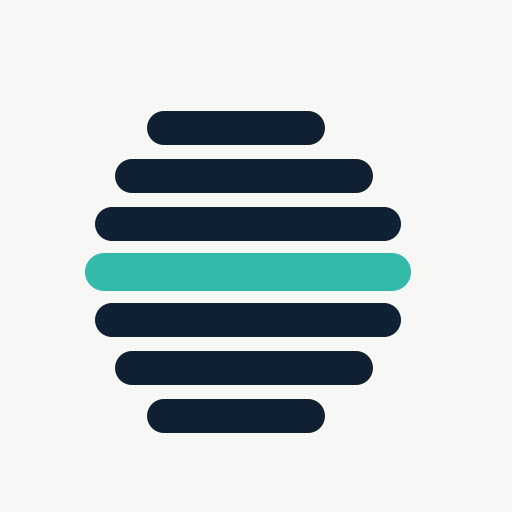
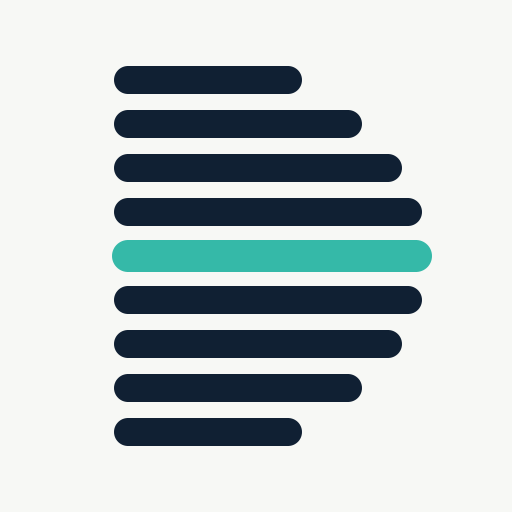
fix: preserve the D silhouette in the brand mark

Changed region(s): [[0.1562, 0.125, 0.8438, 0.875]]

diff --git a/supabase/templates/reset-password.html b/supabase/templates/reset-password.html
@@ -2,7 +2,7 @@
 <html lang="en"><body style="margin:0;background:#0b0e0c;font-family:Arial,sans-serif;color:#f7f8f5">
 <table role="presentation" width="100%" cellspacing="0" cellpadding="0" style="background:#0b0e0c;padding:42px 18px"><tr><td align="center">
 <table role="presentation" width="100%" cellspacing="0" cellpadding="0" style="max-width:560px;border:1px solid #2b352b;border-radius:24px;background:#111612;overflow:hidden">
-<tr><td style="padding:34px 38px 18px"><span style="display:inline-block;width:42px;height:42px;border-radius:14px;background:#f7f8f5;color:#102033;font-size:10px;line-height:6px;text-align:center;font-weight:900;vertical-align:middle"><br>&mdash;&mdash;<br>&mdash;&mdash;&mdash;<br><span style="color:#35b9a8">&mdash;&mdash;&mdash;</span><br>&mdash;&mdash;&mdash;<br>&mdash;&mdash;</span><span style="margin-left:12px;font-size:19px;font-weight:800;letter-spacing:-.3px">doryc</span></td></tr>
+<tr><td style="padding:34px 38px 18px"><span style="display:inline-block;width:42px;height:42px;padding-left:7px;border-radius:14px;background:#f7f8f5;color:#102033;font-size:9px;line-height:5px;text-align:left;font-weight:900;vertical-align:middle"><br>&mdash;&mdash;<br>&mdash;&mdash;&mdash;<br>&mdash;&mdash;&mdash;&mdash;<br><span style="color:#35b9a8">&mdash;&mdash;&mdash;&mdash;</span><br>&mdash;&mdash;&mdash;&mdash;<br>&mdash;&mdash;&mdash;<br>&mdash;&mdash;</span><span style="margin-left:12px;font-size:19px;font-weight:800;letter-spacing:-.3px">doryc</span></td></tr>
 <tr><td style="padding:8px 38px 36px"><p style="margin:0 0 12px;color:#bdf477;font-size:11px;font-weight:800;letter-spacing:2px">SECURE ACCOUNT RECOVERY</p><h1 style="margin:0 0 18px;font-size:32px;line-height:1.15">Choose a new password</h1><p style="margin:0 0 28px;color:#aeb6ac;font-size:15px;line-height:1.65">We received a request to reset your Doryc password. This secure link can only be used for your account.</p>
 <a href="{{ .ConfirmationURL }}" style="display:block;padding:16px 22px;border-radius:13px;background:#bdf477;color:#101510;text-align:center;text-decoration:none;font-size:15px;font-weight:800">Reset my password</a>
 <div style="height:1px;margin:32px 0;background:#273027"></div><p style="margin:0 0 8px;color:#e8ebe6;font-size:14px;font-weight:700">También en español</p><p style="margin:0;color:#929b90;font-size:13px;line-height:1.6">Recibimos una solicitud para cambiar tu contraseña. Si no fuiste tú, ignora este mensaje y tu contraseña seguirá igual.</p></td></tr>

diff --git a/supabase/templates/confirm-signup.html b/supabase/templates/confirm-signup.html
@@ -4,7 +4,7 @@
       <table role="presentation" width="100%" cellspacing="0" cellpadding="0" style="max-width:560px;border:1px solid #2b352b;border-radius:24px;background:#111612">
         <tr>
           <td style="padding:34px 38px 18px">
-            <span style="display:inline-block;width:42px;height:42px;border-radius:14px;background:#f7f8f5;color:#102033;font-size:10px;line-height:6px;text-align:center;font-weight:900;vertical-align:middle"><br>&mdash;&mdash;<br>&mdash;&mdash;&mdash;<br><span style="color:#35b9a8">&mdash;&mdash;&mdash;</span><br>&mdash;&mdash;&mdash;<br>&mdash;&mdash;</span>
+            <span style="display:inline-block;width:42px;height:42px;padding-left:7px;border-radius:14px;background:#f7f8f5;color:#102033;font-size:9px;line-height:5px;text-align:left;font-weight:900;vertical-align:middle"><br>&mdash;&mdash;<br>&mdash;&mdash;&mdash;<br>&mdash;&mdash;&mdash;&mdash;<br><span style="color:#35b9a8">&mdash;&mdash;&mdash;&mdash;</span><br>&mdash;&mdash;&mdash;&mdash;<br>&mdash;&mdash;&mdash;<br>&mdash;&mdash;</span>
             <span style="margin-left:12px;font-size:19px;font-weight:800;letter-spacing:-.3px">doryc</span>
           </td>
         </tr>

diff --git a/app/components/LogoMark.tsx b/app/components/LogoMark.tsx
@@ -3,14 +3,15 @@ export default function LogoMark() {
     <span className="brand-mark" aria-hidden="true">
       <svg viewBox="0 0 40 40" fill="none">
         <g className="logo-lines">
-          <path d="M11 8.5h11" />
-          <path d="M8.5 12.5h17" />
-          <path d="M7 16.5h21" />
-          <path d="M7 24.5h21" />
-          <path d="M8.5 28.5h17" />
-          <path d="M11 32.5h11" />
+          <path d="M8 7.5h13" />
+          <path d="M8 11.5h18" />
+          <path d="M8 15.5h21" />
+          <path d="M8 19.5h22" />
+          <path d="M8 27.5h21" />
+          <path d="M8 31.5h18" />
+          <path d="M8 35.5h13" />
         </g>
-        <path className="logo-accent" d="M6.5 20.5h22" />
+        <path className="logo-accent" d="M8 23.5h22.5" />
       </svg>
     </span>
   );
